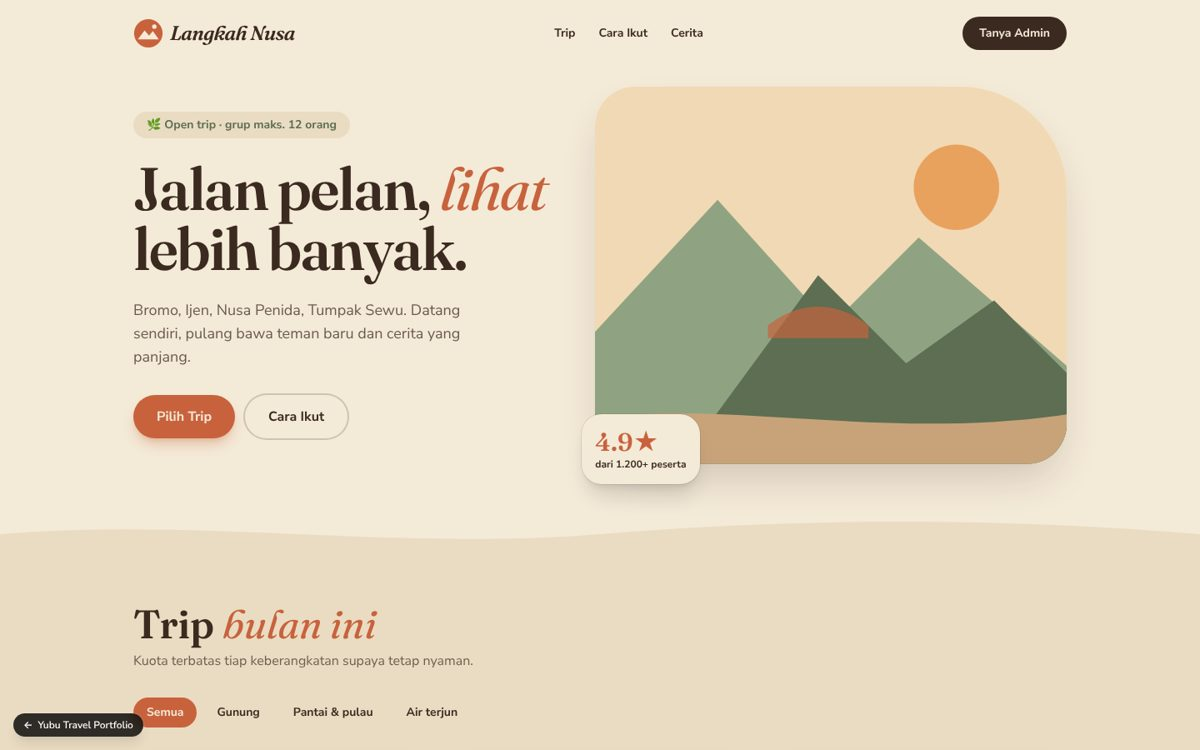
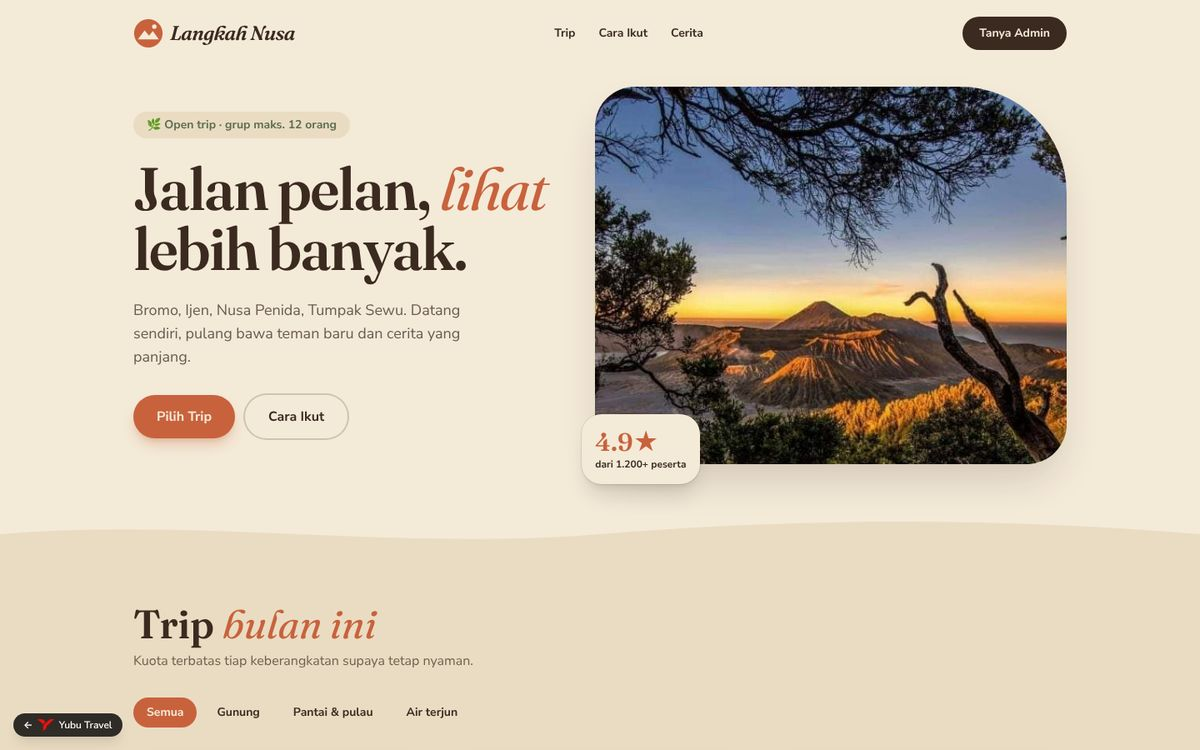
Pasang foto Langkah Nusa: hero dan 5 trip
Hero sunrise Bromo, foto Bromo Sunrise, Kawah Ijen, Bromo + Ijen,
Nusa Penida, dan Tumpak Sewu menggantikan ilustrasi.

Claude-Session: https://claude.ai/code/session_01T9xYak59ohEDkUVoekzEJy

Changed region(s): [[0.4933, 0.092, 0.8942, 0.644], [0.0308, 0.9507, 0.1233, 0.9813]]

diff --git a/src/app/langkah-nusa/data.ts b/src/app/langkah-nusa/data.ts
@@ -3,7 +3,7 @@
 export const NUSA_WA = "6281234567890";
 
 /** Foto dari pengguna; selama null halaman memakai ilustrasi. */
-export const HERO_IMAGE: string | null = null;
+export const HERO_IMAGE: string | null = "/langkah-nusa/hero.jpg";
 
 export type Scene = "mountain" | "crater" | "sea" | "waterfall";
 export type Category = "gunung" | "pantai" | "air-terjun";
@@ -46,7 +46,7 @@ export const TRIPS: Trip[] = [
     quota: 12,
     departDays: [6],
     meetingPoint: "Stasiun Malang Kota Baru",
-    image: null,
+    image: "/langkah-nusa/bromo-sunrise.jpg",
     summary: "Matahari terbit dari Penanjakan, lautan pasir, dan kawah Bromo yang masih berasap.",
     itinerary: [
       {
@@ -81,7 +81,7 @@ export const TRIPS: Trip[] = [
     quota: 10,
     departDays: [5],
     meetingPoint: "Stasiun Ketapang, Banyuwangi",
-    image: null,
+    image: "/langkah-nusa/ijen-blue-fire.jpg",
     summary: "Api biru langka di dunia, danau kawah toska, dan penambang belerang tradisional.",
     itinerary: [
       {
@@ -116,7 +116,7 @@ export const TRIPS: Trip[] = [
     quota: 12,
     departDays: [4],
     meetingPoint: "Stasiun Malang Kota Baru",
-    image: null,
+    image: "/langkah-nusa/bromo-ijen.jpg",
     summary: "Dua gunung paling ikonik Jawa Timur dalam satu perjalanan, dari Malang sampai Banyuwangi.",
     itinerary: [
       {
@@ -156,7 +156,7 @@ export const TRIPS: Trip[] = [
     quota: 14,
     departDays: [0, 3, 6],
     meetingPoint: "Pelabuhan Sanur",
-    image: null,
+    image: "/langkah-nusa/nusa-penida.jpg",
     summary: "Kelingking Beach, Broken Beach, Angel's Billabong, dan Crystal Bay dalam satu hari.",
     itinerary: [
       {
@@ -185,7 +185,7 @@ export const TRIPS: Trip[] = [
     quota: 12,
     departDays: [0, 6],
     meetingPoint: "Stasiun Malang Kota Baru",
-    image: null,
+    image: "/langkah-nusa/tumpak-sewu.jpg",
     summary: "Air terjun tirai raksasa dengan latar Semeru, turun ke dasar lembah dan Goa Tetes.",
     itinerary: [
       {
